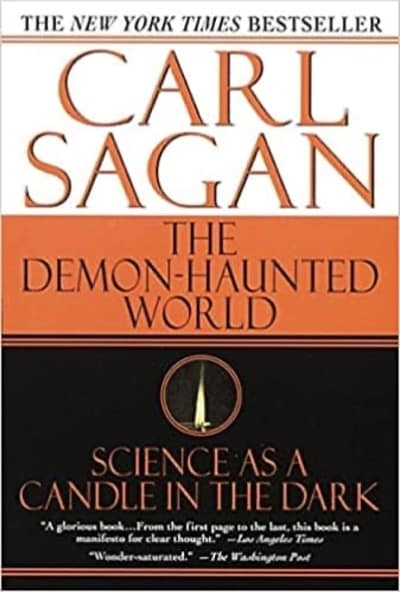
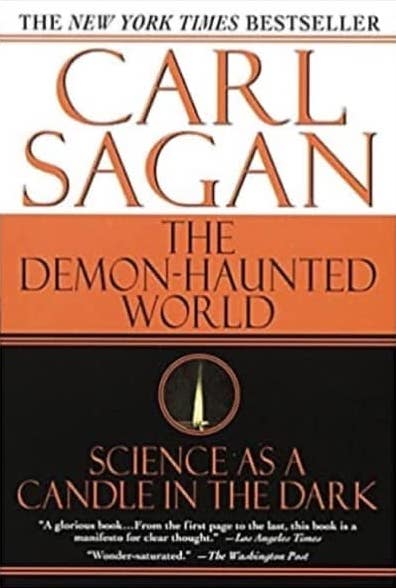
book shadow border

diff --git a/_layouts/reading.html b/_layouts/reading.html
@@ -29,7 +29,7 @@ AND adds the following code in the {{content}} area of default.html -->
         {%- for book in page.books-reading -%}
             <div class="w-20-ns mr4 mv2 overflow-auto ws-normal" style="min-width: 200px;">
                 <div class="mb1">
-                    <img src="{{book.cover}}" class="" alt="">
+                    <img src="{{book.cover}}" class="smooth-shadow outline" alt="">
                 </div>
                 <h3 class="mt2 mb1 f5">{{book.title}}</h3>
                 <div class="o-70">by {{book.author}}</div>
@@ -48,7 +48,7 @@ AND adds the following code in the {{content}} area of default.html -->
     {%- for book in page.books-2021 -%}
     <div class="flex flex-column flex-row-ns items-start items-start-ns mb5">
         <div class="mw5 mr5">
-            <img src="{{book.cover}}" class="ba bw2 b--black" alt="">
+            <img src="{{book.cover}}" class="ba br3 b--black-05 smooth-shadow" alt="">
         </div>
         <div class="mt3">
             <h3 class="f3 mb1">{{book.title}}</h3>

diff --git a/css/style.css b/css/style.css
@@ -33,6 +33,21 @@ svg {
   color: #535353;
 }
 
+.smooth-shadow {
+  box-shadow:
+  0 1.5px 54.5px -71px rgba(0, 0, 0, 0.74),
+  0 3.5px 46.5px -71px rgba(0, 0, 0, 1.023),
+  0 6.7px 33.5px -71px rgba(0, 0, 0, 1.056),
+  0 13.2px 25.5px -71px rgba(0, 0, 0, 0.969),
+  0 49px 80px -71px rgba(0, 0, 0, 1);
+}
+
+.outline {
+  outline: 1px solid rgba(22, 19, 63, 0.1);
+  outline-offset: -1px;
+}
+
+
 @media (prefers-color-scheme: dark) {
   body {
     background-color: #171717;
